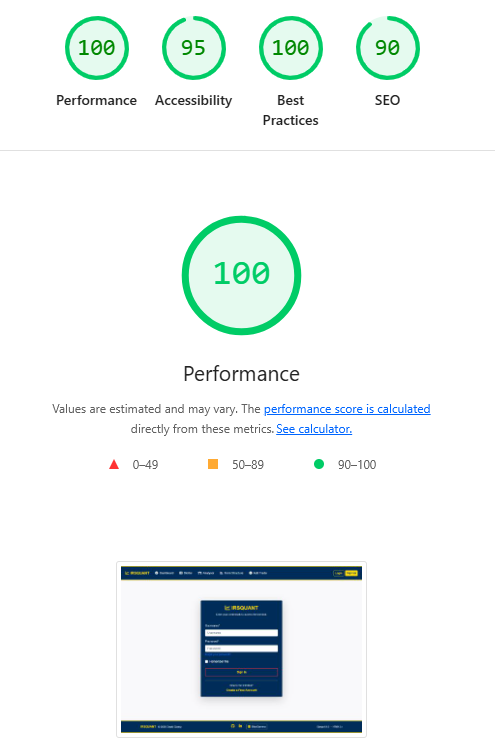
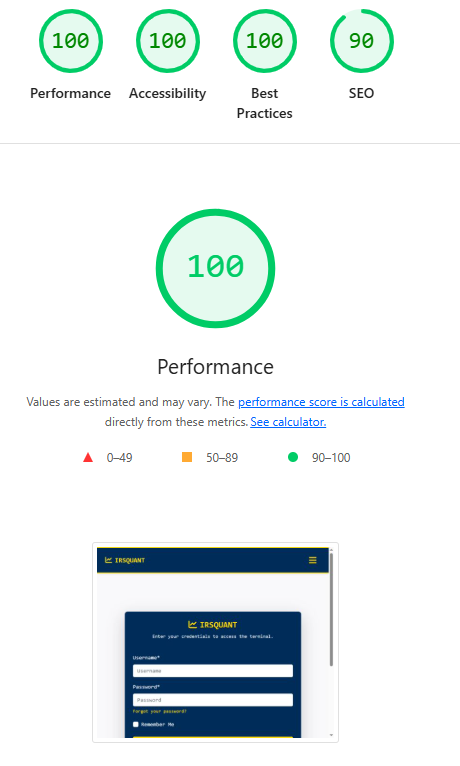
Still working on contrast colours css

diff --git a/workspace/templates/workspace/add_trade.html b/workspace/templates/workspace/add_trade.html
@@ -12,13 +12,13 @@
             <div class="d-flex align-items-center mb-4 pb-3" style="border-bottom: 1px solid var(--ua-gold);">
                 <div class="me-3">
                     <span class="fa-stack fa-lg">
-                        <i class="fa-solid fa-circle fa-stack-2x text-ua-gold"></i>
+                        <i class="fa-solid fa-circle fa-stack-2x text-dark"></i>
                         <i class="fa-solid fa-file-signature fa-stack-1x text-ua-navy"></i>
                     </span>
                 </div>
                 <div>
                     <!-- Header: White text with Gold accent for readability -->
-                    <h1 class="h3 fw-bold text-ua-gold"> Trade Execution
+                    <h1 class="h3 text-dark"> Trade Execution
                     </h1>
                     <!-- FIX 1: Changed text-dark (invisible) to text-white-50 (readable) -->
                     <p class="text-dark mb-0 small">Enter contract details for immediate QuantLib valuation.</p>